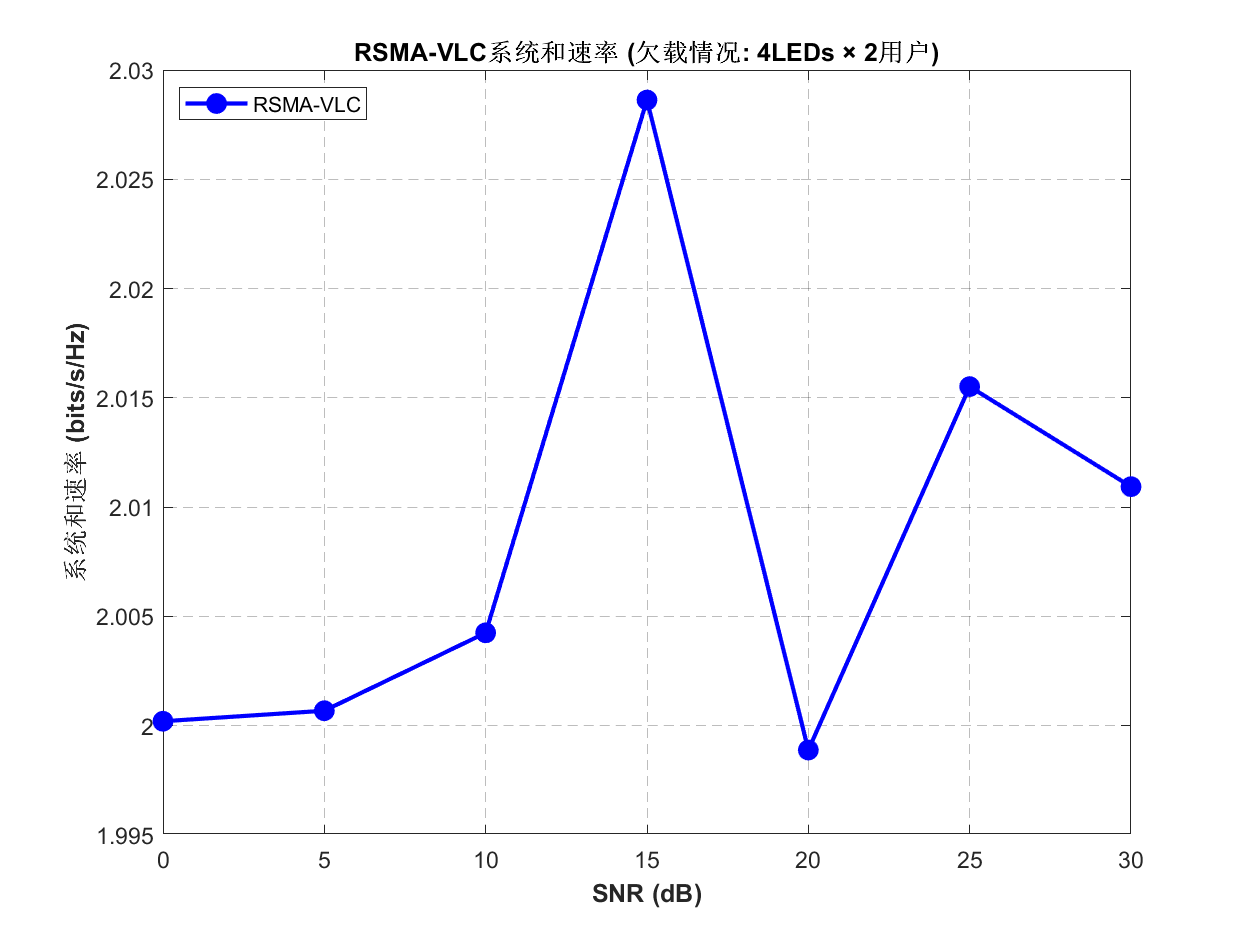
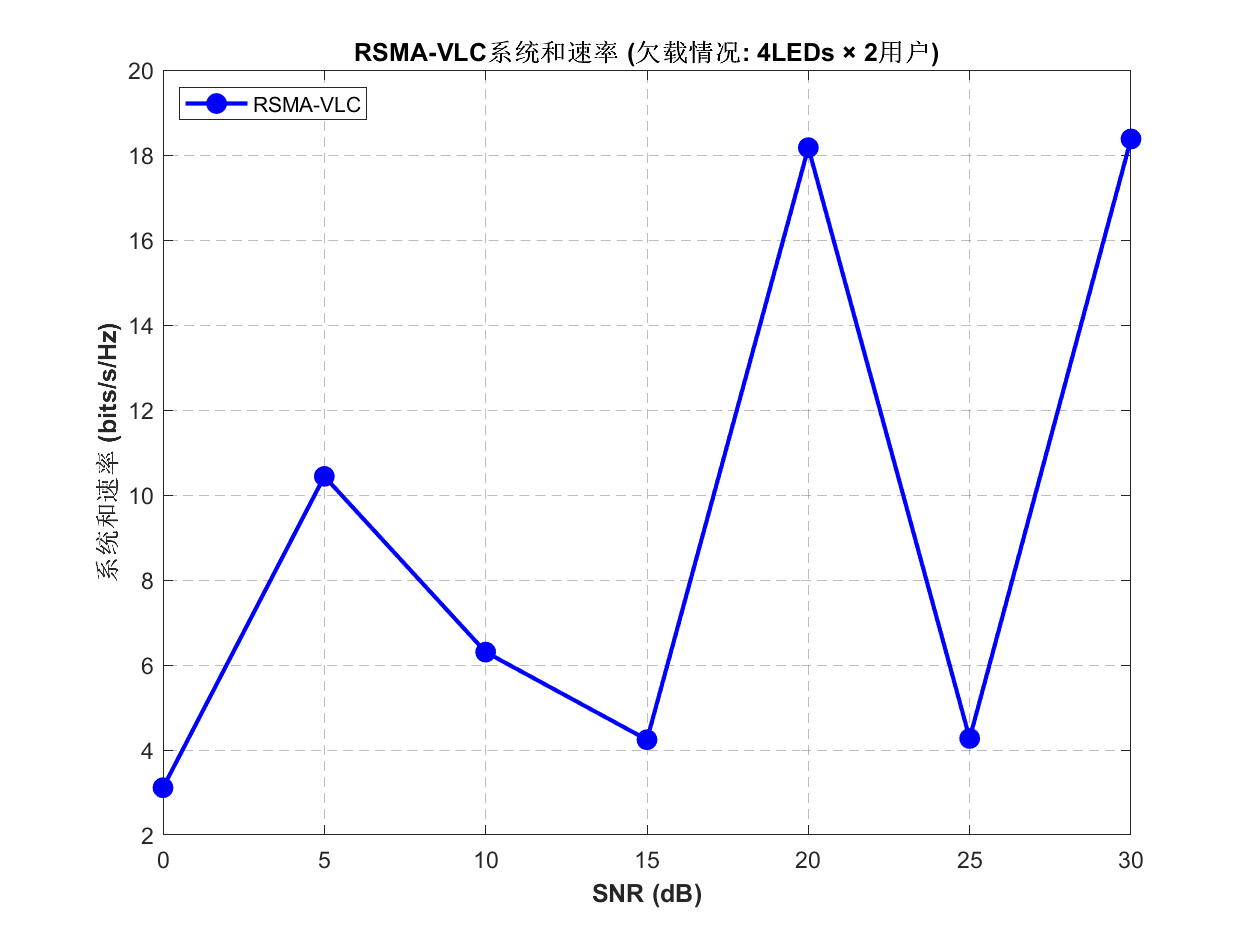
第二版：上下跳

diff --git a/RSMA_VLC_optimization.m b/RSMA_VLC_optimization.m
@@ -51,6 +51,48 @@ for k = 1:Nr
     W_current{k+1} = W_current{k+1} * scale_factor;
 end
 
+% 同时满足 LED 幅度约束（避免出现极大 w 导致后续 inf*0->NaN）
+led_bound = min(params.I_DC - params.I_L, params.I_U - params.I_DC);
+max_led_sum = 0;
+for i = 1:Nt
+    led_sum = abs(W_current{1}(i));
+    for k = 1:Nr
+        led_sum = led_sum + abs(W_current{k+1}(i));
+    end
+    max_led_sum = max(max_led_sum, led_sum);
+end
+if max_led_sum > led_bound && max_led_sum > 0
+    sf_led = led_bound / max_led_sum;
+    for k = 0:Nr
+        W_current{k+1} = W_current{k+1} * sf_led;
+    end
+end
+
+% 最后兜底：若仍出现非有限值，重新初始化为满足LED约束的小随机值
+% 这里把所有预编码向量拼成一个列向量用于检查 Inf/NaN
+all_w = vertcat(W_current{:});
+if any(~isfinite(all_w))
+    warning('初始化预编码出现 Inf/NaN，已重置为满足 LED 约束的小随机初值。');
+    W_current{1} = randn(Nt, 1);
+    for k = 1:Nr
+        W_current{k+1} = randn(Nt, 1);
+    end
+    max_led_sum = 0;
+    for i = 1:Nt
+        led_sum = abs(W_current{1}(i));
+        for k = 1:Nr
+            led_sum = led_sum + abs(W_current{k+1}(i));
+        end
+        max_led_sum = max(max_led_sum, led_sum);
+    end
+    if max_led_sum > 0
+        sf_led = led_bound / max_led_sum;
+        for k = 0:Nr
+            W_current{k+1} = W_current{k+1} * sf_led;
+        end
+    end
+end
+
 % 初始化公共速率分配
 C_current = ones(Nr, 1) * 0.01;
 
@@ -67,18 +109,78 @@ while ~converged && iteration < max_iter
     iteration = iteration + 1;
 
     % 解决凸优化子问题 (问题3.20)
-    [W_new, C_new, a_p_new, f_p_new, g_p_new, a_c_new, f_c_new, g_c_new, ~] = ...
-        solve_sca_subproblem(H_est, W_current, C_current, a_p, f_p, g_p, a_c, f_c, g_c, ...
-                           params, P_t, noise_power);
-    
-    % 更新变量
-    W_current = W_new;  % 预编码矩阵
-    C_current = C_new;  % 公共速率分配
-    a_p = a_p_new; f_p = f_p_new; g_p = g_p_new;
-    a_c = a_c_new; f_c = f_c_new; g_c = g_c_new;
-    
-    % 计算实际系统和速率
-    current_sum_rate = calculate_sum_rate(H_real, W_current, C_current, params, noise_power);
+    [W_new, C_new, a_p_new, f_p_new, g_p_new, a_c_new, f_c_new, g_c_new, ~, cvx_status_out] = ...
+        solve_sca_subproblem(H_est, W_current, g_p, g_c, params, P_t, noise_power);
+
+    % 若 CVX 未正常求解，保持上一次可行点，避免把 W 更新成全零/异常值
+    if ~(contains(cvx_status_out, 'Solved') || contains(cvx_status_out, 'Inaccurate/Solved'))
+        warning('CVX 子问题求解状态: %s，保持上一迭代点。', cvx_status_out);
+        current_sum_rate = sum_rate_prev;
+    else
+        % 计算新解的真实系统和速率（注意：SCA 目标与真实 sum-rate 不完全一致，直接更新可能导致真实速率下降甚至掉到 0）
+        current_sum_rate_candidate = calculate_sum_rate(H_real, W_new, C_new, params, noise_power);
+
+        % 阻尼/回溯：若真实 sum-rate 下降，则用凸组合缩步，防止迭代点滑到 W≈0 后被线性化“锁死”
+        accepted = false;
+        best_rate = current_sum_rate_candidate;
+        best_W = W_new;
+        best_C = C_new;
+        best_slack = [];
+
+        if isfinite(current_sum_rate_candidate) && (current_sum_rate_candidate >= sum_rate_prev - 1e-6)
+            accepted = true;
+        else
+            for bt = 1:6
+                alpha = 0.5^bt;
+
+                % blend W
+                W_blend = W_current;
+                for kk = 1:(Nr+1)
+                    W_blend{kk} = (1 - alpha) * W_current{kk} + alpha * W_new{kk};
+                end
+
+                % blend C
+                C_blend = (1 - alpha) * C_current + alpha * C_new;
+
+                % 重新初始化松弛变量（保证与新线性化点一致，避免数值漂移）
+                [a_p_bt, f_p_bt, g_p_bt, a_c_bt, f_c_bt, g_c_bt, C_blend] = initialize_slack_variables(H_est, W_blend, C_blend, params, noise_power);
+
+                rate_bt = calculate_sum_rate(H_real, W_blend, C_blend, params, noise_power);
+                if isfinite(rate_bt) && (rate_bt >= sum_rate_prev - 1e-6)
+                    accepted = true;
+                    best_rate = rate_bt;
+                    best_W = W_blend;
+                    best_C = C_blend;
+                    best_slack = {a_p_bt, f_p_bt, g_p_bt, a_c_bt, f_c_bt, g_c_bt};
+                    break;
+                end
+
+                if isfinite(rate_bt) && rate_bt > best_rate
+                    best_rate = rate_bt;
+                    best_W = W_blend;
+                    best_C = C_blend;
+                    best_slack = {a_p_bt, f_p_bt, g_p_bt, a_c_bt, f_c_bt, g_c_bt};
+                end
+            end
+        end
+
+        if accepted
+            % 接受更新：优先使用回溯后的 best_slack（若未回溯则保持 CVX 输出）
+            W_current = best_W;
+            C_current = best_C;
+            if ~isempty(best_slack)
+                a_p = best_slack{1}; f_p = best_slack{2}; g_p = best_slack{3};
+                a_c = best_slack{4}; f_c = best_slack{5}; g_c = best_slack{6};
+            else
+                a_p = a_p_new; f_p = f_p_new; g_p = g_p_new;
+                a_c = a_c_new; f_c = f_c_new; g_c = g_c_new;
+            end
+            current_sum_rate = best_rate;
+        else
+            % 不接受会导致下降的更新：保持上一点
+            current_sum_rate = sum_rate_prev;
+        end
+    end
     
     % 检查收敛
     if abs(current_sum_rate - sum_rate_prev) < tol
@@ -165,39 +267,32 @@ end
 
 end
 
+%{
+Legacy (unused): compute_taylor_expansion
+
+早期版本用于对照论文(3.15)/(3.18)的泰勒展开项。
+当前实现已改为在 solve_sca_subproblem 内部按“旧点切线下界”直接构造仿射约束，
+因此该函数不再被调用；保留注释块仅供回溯参考。
+
 function [tau_p, tau_c] = compute_taylor_expansion(H_real, W, g_p_old, g_c_old, params)
-% 计算一阶泰勒展开项 (公式3.15和3.18)
-
 Nr = params.Nr;
-% Nt = params.Nt;          % 维度信息（此函数内部未直接使用，仅用于对照论文/调试）
-% M  = size(H_real, 3);    % 样本数（此函数内部使用 mean(H_real,3) 已隐式用到）
-
-% 预编码向量：W = {w0, w1, ..., wNr}
-% w0: 公共流预编码；wk: 用户k私有流预编码
 w0 = W{1};
 w_private = W(2:end);
 
-% 初始化泰勒展开项
 tau_p = zeros(Nr, 1);
 tau_c = zeros(Nr, 1);
 
+H_avg = mean(H_real, 3);
 for k = 1:Nr
-    % 计算平均信道
-    H_avg = mean(H_real, 3);
     hk = H_avg(k, :)';
-    
-    % 计算私有流的泰勒展开 (公式3.15)
-    numerator = 2 * (w_private{k}' * (hk * hk') * w_private{k});
     denom = g_p_old(k);
-    tau_p(k) = numerator / denom - (abs(hk' * w_private{k}) / denom)^2;
-    
-    % 计算公共流的泰勒展开 (公式3.18)
-    numerator_c = 2 * (w0' * (hk * hk') * w0);
-    denom_c = g_c_old(k);
-    tau_c(k) = numerator_c / denom_c - (abs(hk' * w0) / denom_c)^2;
-end
+    tau_p(k) = (2 * (w_private{k}' * (hk * hk') * w_private{k})) / denom - (abs(hk' * w_private{k}) / denom)^2;
 
+    denom_c = g_c_old(k);
+    tau_c(k) = (2 * (w0' * (hk * hk') * w0)) / denom_c - (abs(hk' * w0) / denom_c)^2;
 end
+end
+%}
 
 function sum_rate = calculate_sum_rate(H_real, W, C, params, noise_power)
 % 计算RSMA-VLC系统的实际和速率
@@ -304,9 +399,8 @@ sum_rate = total_sum_rate / M;
 
 end
 
-function [W_opt, C_opt, a_p_opt, f_p_opt, g_p_opt, a_c_opt, f_c_opt, g_c_opt, obj_value] = ...
-    solve_sca_subproblem(H_est, W_current, C_current, a_p_old, f_p_old, g_p_old, a_c_old, f_c_old, g_c_old, ...
-                       params, P_t, noise_power)
+function [W_opt, C_opt, a_p_opt, f_p_opt, g_p_opt, a_c_opt, f_c_opt, g_c_opt, obj_value, cvx_status_out] = ...
+    solve_sca_subproblem(H_est, W_current, g_p_old, g_c_old, params, P_t, noise_power)
 % 解决SCA凸优化子问题 (对应问题3.20)
 
 Nr = params.Nr;
@@ -319,6 +413,54 @@ w0_old = W_current{1};
 w_private_old = zeros(Nt, Nr);
 for k = 1:Nr
     w_private_old(:, k) = W_current{k+1};
+end
+
+% 预计算每个用户的线性化常量（全部为数值常量，避免在 CVX 表达式上调用 isfinite 等函数）
+A_k = cell(Nr, 1);
+v_priv = cell(Nr, 1);   % v_priv{k} = A_k{k} * w_private_old(:,k)
+v_comm = cell(Nr, 1);   % v_comm{k} = A_k{k} * w0_old
+g_p0 = zeros(Nr, 1);
+g_c0 = zeros(Nr, 1);
+num_priv0 = zeros(Nr, 1);
+num_comm0 = zeros(Nr, 1);
+
+for k = 1:Nr
+    hk = H_est(k, :)';
+    if any(~isfinite(hk))
+        hk(:) = 0;
+    end
+    A = hk * hk';
+    if any(~isfinite(A(:)))
+        A(:) = 0;
+    end
+    A_k{k} = A;
+
+    gp = g_p_old(k);
+    if ~isfinite(gp) || gp <= 0
+        gp = noise_power;
+    end
+    g_p0(k) = max(gp, 1e-9);
+
+    gc = g_c_old(k);
+    if ~isfinite(gc) || gc <= 0
+        gc = noise_power;
+    end
+    g_c0(k) = max(gc, 1e-9);
+
+    v_priv{k} = A * w_private_old(:, k);
+    v_comm{k} = A * w0_old;
+
+    nump = real(w_private_old(:, k)' * A * w_private_old(:, k));
+    if ~isfinite(nump) || nump < 0
+        nump = 0;
+    end
+    num_priv0(k) = nump;
+
+    numc = real(w0_old' * A * w0_old);
+    if ~isfinite(numc) || numc < 0
+        numc = 0;
+    end
+    num_comm0(k) = numc;
 end
 
 cvx_begin quiet
@@ -357,8 +499,7 @@ cvx_begin quiet
             exp((log(2)/B) * a_p(k)) <= f_p(k);
             
             % 约束(3.14d): g_p >= 干扰+噪声
-            hk = H_est(k, :)';
-            A = hk * hk';
+            A = A_k{k};
             interference_power = 0;
             for j = 1:Nr
                 if j ~= k
@@ -371,9 +512,10 @@ cvx_begin quiet
             % 目标：f_p - 1 <= |h_k^T w_k|^2 / g_{k,p}
             % 右侧为凸函数的“下界切线”（仿射），在(w_old,g_old)处：
             %   |h^T w|^2/g >= 2*w_old^T A w / g_old - (w_old^T A w_old)/g_old^2 * g
-            g_old = max(g_p_old(k), 1e-9);
-            num_old = w_private_old(:, k)' * A * w_private_old(:, k);
-            (2 * (w_private_old(:, k)' * A * w_private(:, k))) / g_old - (num_old / (g_old^2)) * g_p(k) >= f_p(k) - 1;
+            g_old = g_p0(k);
+            num_old = num_priv0(k);
+            lin_num = real(v_priv{k}' * w_private(:, k));
+            (2 * lin_num) / g_old - (num_old / (g_old^2)) * g_p(k) >= f_p(k) - 1;
         end
         
         % 公共速率约束 (公式3.17a, 3.17b, 3.17c, 3.17e, 3.19)
@@ -389,8 +531,7 @@ cvx_begin quiet
             exp((log(2)/B) * a_c(k)) <= f_c(k);
             
             % 约束(3.17e): g_c >= 总干扰+噪声
-            hk = H_est(k, :)';
-            A = hk * hk';
+            A = A_k{k};
             total_interference = 0;
             for j = 1:Nr
                 total_interference = total_interference + quad_form(w_private(:, j), A);
@@ -399,12 +540,15 @@ cvx_begin quiet
 
             % 约束(3.19): 一阶下界近似后的公共 SINR 约束
             % 目标：f_c - 1 <= |h_k^T w_0|^2 / g_{k,c}
-            g_old = max(g_c_old(k), 1e-9);
-            num_old = w0_old' * A * w0_old;
-            (2 * (w0_old' * A * w0)) / g_old - (num_old / (g_old^2)) * g_c(k) >= f_c(k) - 1;
+            g_old = g_c0(k);
+            num_old = num_comm0(k);
+            lin_num = real(v_comm{k}' * w0);
+            (2 * lin_num) / g_old - (num_old / (g_old^2)) * g_c(k) >= f_c(k) - 1;
         end
         
 cvx_end
+
+cvx_status_out = cvx_status;
 
 % 打包输出
 W_opt = cell(1, Nr+1);

diff --git a/calculate_transmit_power.m b/calculate_transmit_power.m
@@ -26,6 +26,13 @@ noise_power = sigma_shot2 + sigma_thermal2;
 % 平均信道增益
 avg_h = mean(abs(H_est(:)).^2);
 
+% 避免 avg_h≈0 导致 P_t 变为 Inf/NaN（例如用户/LED 超出FOV导致信道接近0）
+avg_h_floor = 1e-15;
+if ~isfinite(avg_h) || avg_h < avg_h_floor
+	warning('平均信道增益 avg_h=%.3e 过小/无效，已夹紧到 %.1e 以避免 P_t 变为 Inf。请检查场景/FOV/位置设置。', avg_h, avg_h_floor);
+	avg_h = avg_h_floor;
+end
+
 % 所需发射功率
 P_t = SNR_linear * noise_power / avg_h;
 
